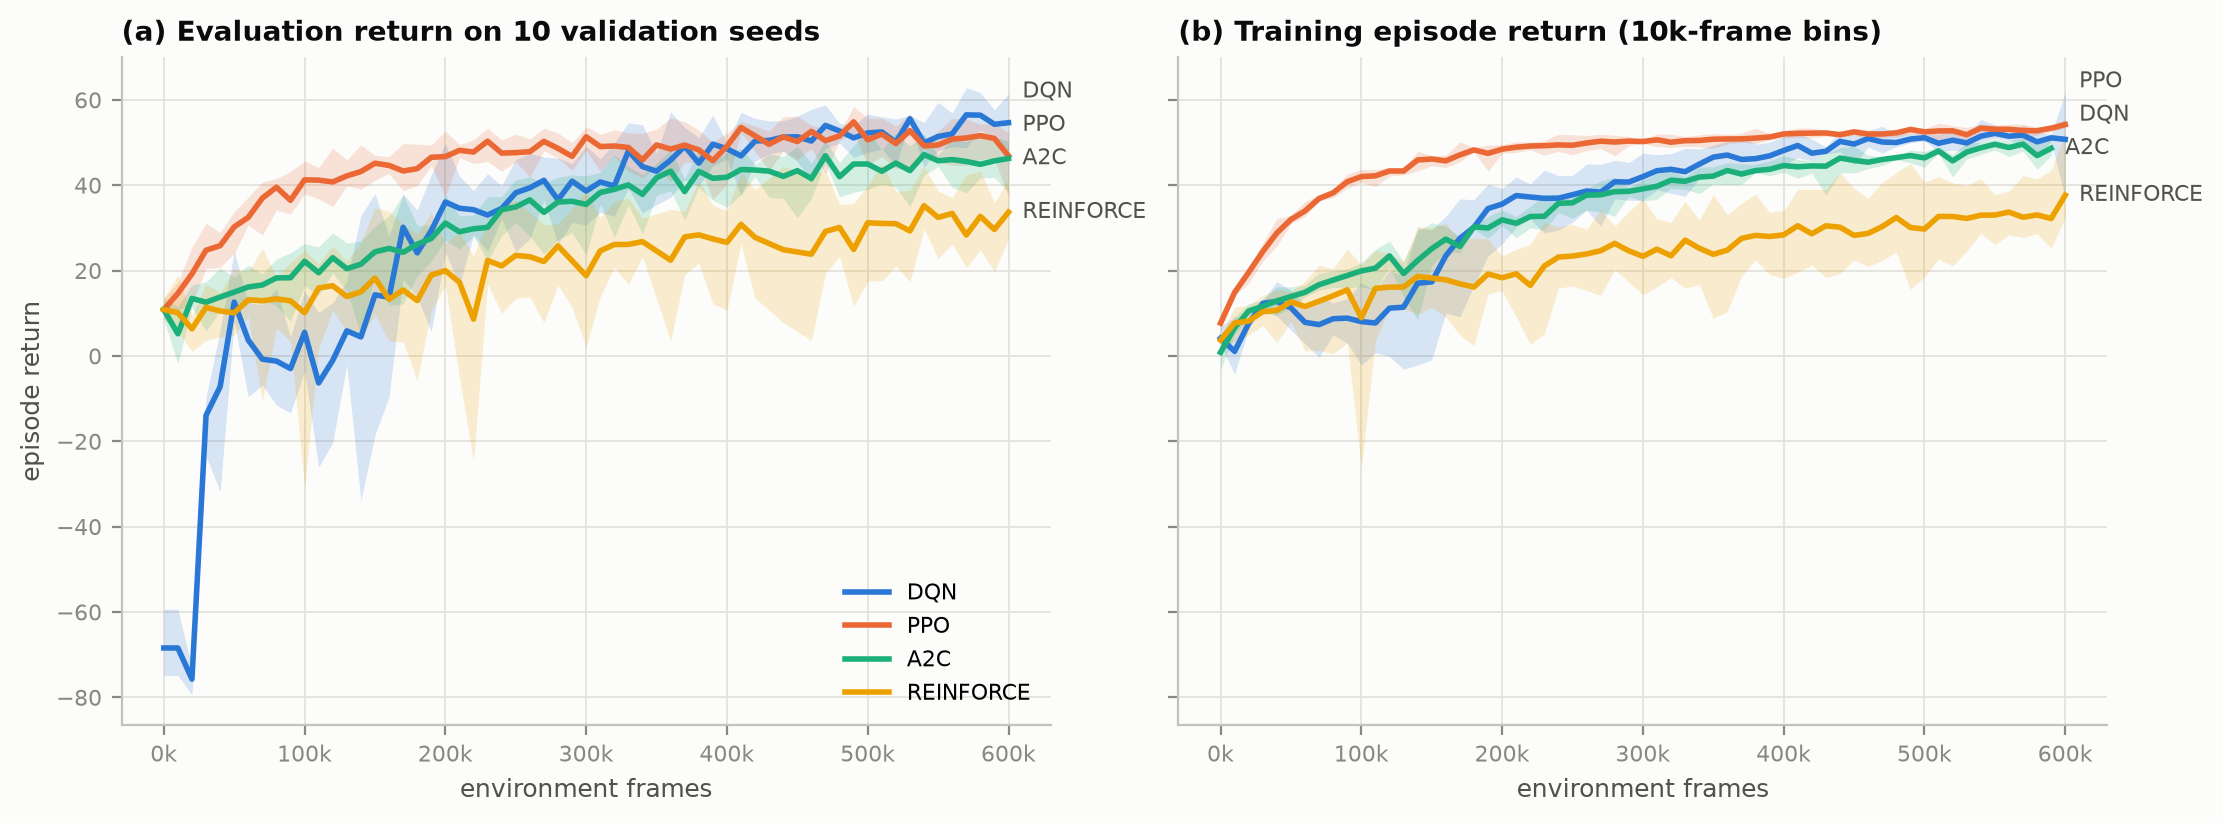
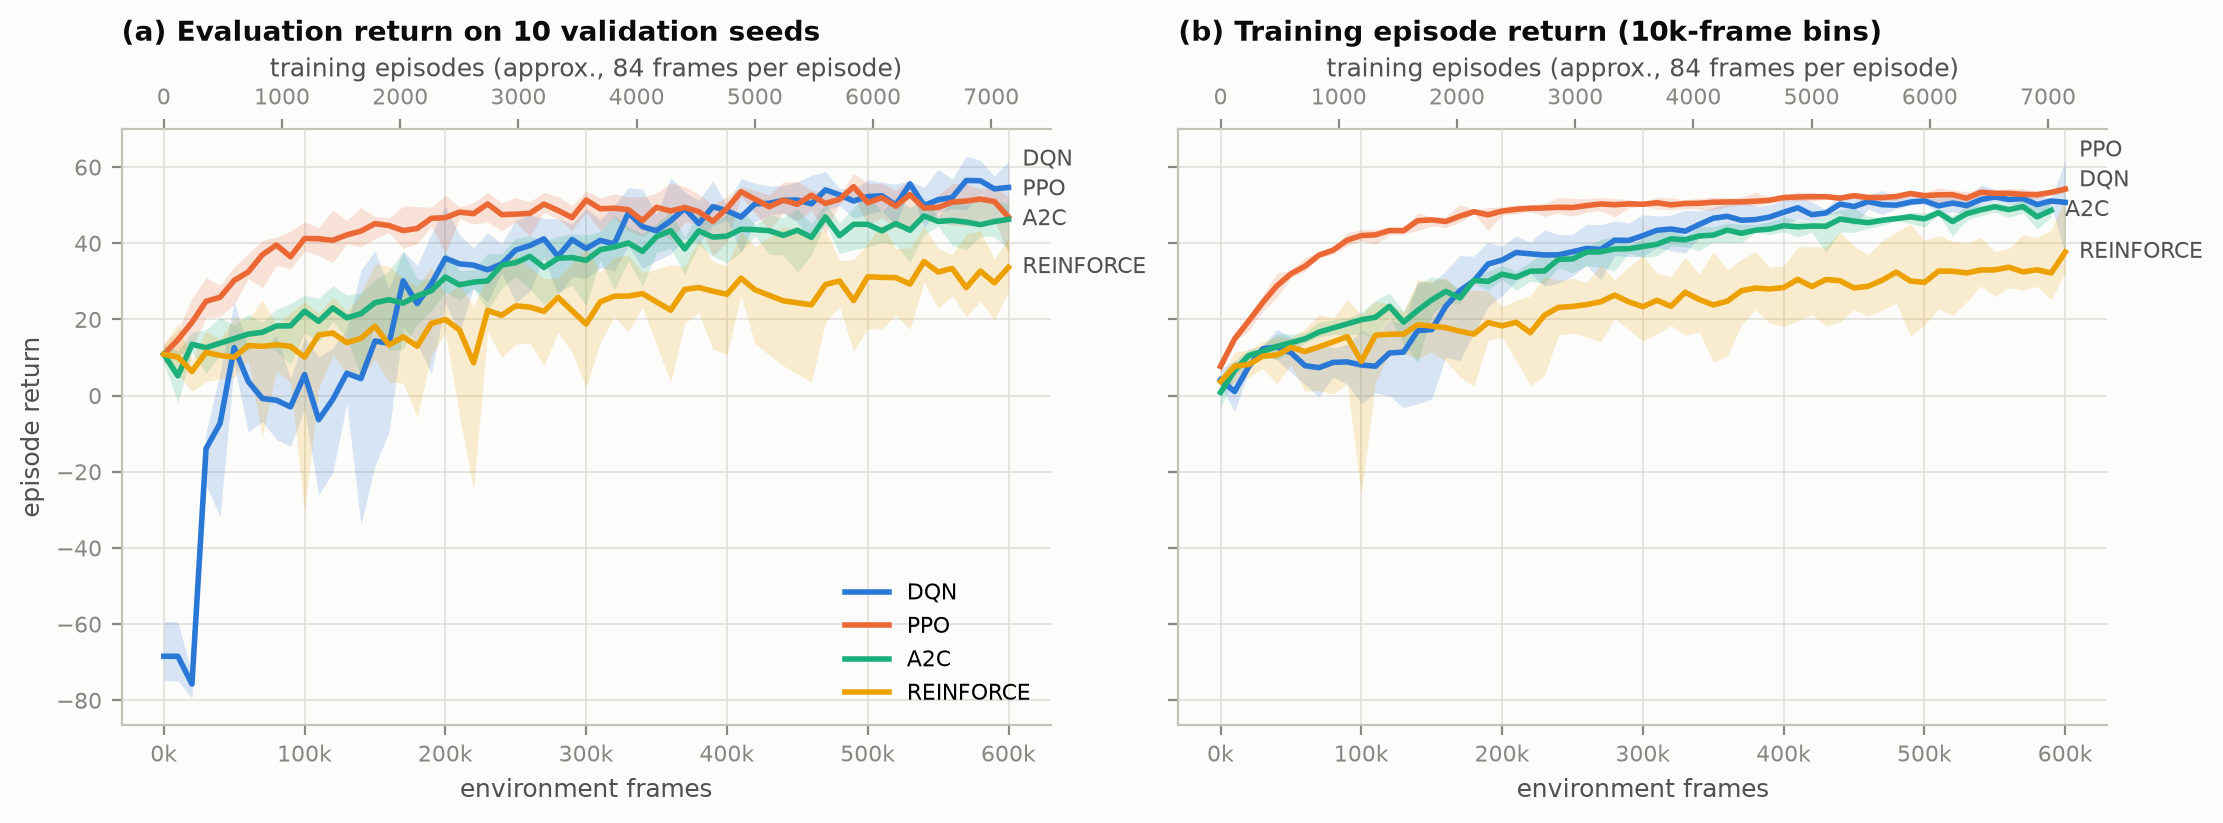
Add report-template hyperparameter tables and episode counts
template_<algo> tables list every hyperparameter per Phase 1 run in the official
report-template layout (DQN columns fixed by the template; A2C added since the
template omits it), with the changed value starred and mean reward on the 50
selection seeds. Convergence table gains episodes-to-threshold columns, and
fig1 shows an approximate training-episode axis.

diff --git a/main.py b/main.py
@@ -31,7 +31,7 @@ import os
 import subprocess
 import sys
 import time
-from collections.abc import Iterable, Sequence
+from collections.abc import Callable, Iterable, Sequence
 from concurrent.futures import as_completed, ThreadPoolExecutor
 from dataclasses import dataclass, field
 from pathlib import Path
@@ -1125,6 +1125,51 @@ def hyperparameter_table(data: dict[str, Any], algo: str) -> pd.DataFrame:
     return pd.DataFrame(rows)
 
 
+def _eps_strategy(c: dict[str, Any]) -> str:
+    return f"eps-greedy {c['eps_start']:g}->{c['eps_end']:g} over {c['eps_decay_frames'] / 1000:g}k frames"
+
+
+# Report-template columns per algorithm: (column label, value from the run's full config). The DQN columns are fixed
+# by the official template; the policy-gradient ones are the controls each sweep varied (the template leaves them open).
+TEMPLATE_COLUMNS: dict[str, list[tuple[str, Callable[[dict[str, Any]], Any]]]] = {
+    "dqn": [("Learning Rate", lambda c: c["lr"]), ("Gamma", lambda c: c["gamma"]),
+            ("Replay Buffer Size", lambda c: c["buffer_size"]), ("Batch Size", lambda c: c["batch_size"]),
+            ("Exploration Strategy", _eps_strategy), ("Learning Starts", lambda c: c["learning_starts"]),
+            ("Target Update", lambda c: "hard / 1k steps" if c["target_update"] == "hard" else f"soft, tau={c['tau']:g}")],
+    "reinforce": [("Learning Rate", lambda c: c["lr"]), ("Gamma", lambda c: c["gamma"]),
+                  ("Baseline", lambda c: c["baseline"]), ("Normalize Advantages", lambda c: c["normalize_advantages"]),
+                  ("Entropy Coef", lambda c: c["entropy_coef"]),
+                  ("Episodes per Update", lambda c: c["episodes_per_update"])],
+    "a2c": [("Learning Rate", lambda c: c["lr"]), ("Rollout Length (frames)", lambda c: c["frames_per_batch"]),
+            ("Entropy Coef", lambda c: c["entropy_coef"]), ("Value Coef", lambda c: c["value_coef"]),
+            ("GAE Lambda", lambda c: c["gae_lambda"])],
+    "ppo": [("Learning Rate", lambda c: c["lr"]), ("Clip Epsilon", lambda c: c["clip_epsilon"]),
+            ("Epochs", lambda c: c["num_epochs"]), ("Minibatch Size", lambda c: c["minibatch_size"]),
+            ("Rollout Length (frames)", lambda c: c["frames_per_batch"]), ("Entropy Coef", lambda c: c["entropy_coef"]),
+            ("Value Coef", lambda c: c["value_coef"]), ("GAE Lambda", lambda c: c["gae_lambda"])],
+}
+
+
+def template_table(data: dict[str, Any], algo: str) -> pd.DataFrame:
+    """The 10 Phase 1 configs in the report template's layout: every listed hyperparameter spelled out per row, then
+    the mean reward (mean return on the 50 selection seeds, 200k frames). The varied value is marked with *."""
+    sel = data["sel"]
+    picked = data["phase2_names"][algo].removesuffix("_p2")
+    base = data["base_cfg"][algo]
+    rows = []
+    for e in SWEEP[algo]:
+        cfg = {**base, **e.overrides}
+        changed = {label for label, fn in TEMPLATE_COLUMNS[algo] if fn(cfg) != fn(base)}
+        row = {"Run": e.name.removeprefix(f"{algo}_") + (" (picked)" if e.name == picked else "")}
+        for label, fn in TEMPLATE_COLUMNS[algo]:
+            v = fn(cfg)
+            text = ("yes" if v else "no") if isinstance(v, bool) else f"{v:g}" if isinstance(v, float) else str(v)
+            row[label] = f"{text}*" if label in changed else text
+        row["Mean Reward"] = f"{sel.loc[sel.policy == e.name, 'return'].mean():.1f}"
+        rows.append(row)
+    return pd.DataFrame(rows)
+
+
 def generalization_table(data: dict[str, Any]) -> pd.DataFrame:
     """Per algorithm: best validation return (model selection) vs held-out test return, and return per scenario."""
     p2, ep = data["p2"], data["episodes"]
@@ -1169,8 +1214,13 @@ def fig_learning_curves(data, out, captions) -> None:
     axes[0].set_title("(a) Evaluation return on 10 validation seeds")
     axes[1].set_title("(b) Training episode return (10k-frame bins)")
     axes[0].set_ylabel("episode return")
+    # Frames are decisions; a shift has ~75-90 of them, so also show the (pooled, approximate) episode count on top.
+    logs = [log for runs in data["p2_logs"].values() for log in runs]
+    per_ep = sum(int(log["frames"].max()) for log in logs) / sum(int(log["episodes"].max()) for log in logs)
     for ax in axes:
         _kframes(ax)
+        top = ax.secondary_xaxis("top", functions=(lambda f: f / per_ep, lambda e: e * per_ep))
+        top.set_xlabel(f"training episodes (approx., {per_ep:.0f} frames per episode)")
     axes[0].legend(loc="lower right")
     _save(fig, out, "fig1_learning_curves", captions,
           "Learning curves of the four algorithms (Phase 2: picked config, 5 seeds, 600k frames). Line: mean across "
@@ -1234,6 +1284,9 @@ def convergence_table(data) -> pd.DataFrame:
             for t in CONVERGENCE_THRESHOLDS:
                 hit = e.loc[e["eval_return_mean"] >= t, "frames"]
                 row[f"frames_to_{t:g}"] = float(hit.iloc[0]) if len(hit) else float("nan")
+            for t in CONVERGENCE_THRESHOLDS:  # training episodes completed by then (same log row)
+                hit = e.loc[e["eval_return_mean"] >= t, "episodes"]
+                row[f"episodes_to_{t:g}"] = float(hit.iloc[0]) if len(hit) else float("nan")
             last = e[e["frames"] >= e["frames"].max() - 100_000]["eval_return_mean"]
             row["last100k_mean"], row["last100k_std"] = last.mean(), last.std(ddof=1)
             rows.append(row)
@@ -1428,12 +1481,16 @@ def make_plots(root: Path = Path("."), out: Path | None = None) -> list[Path]:
         _write_table(pd.DataFrame({"parameter": list(cfg), "value": [json.dumps(v) if isinstance(v, (list, dict))
                                                                       else str(v) for v in cfg.values()]}),
                      tables, f"base_config_{a}", f"{ALGO_LABEL[a]}: base config c00")
+    for a in PLOT_ALGOS:
+        _write_table(template_table(data, a), tables, f"template_{a}",
+                     f"{ALGO_LABEL[a]}: Phase 1 runs in the report-template layout (200k frames, seed 0; * = the value "
+                     f"changed from c00; Mean Reward = mean return on 50 selection seeds)")
     for s in data["scenarios"]:
         _write_table(eval_table(data["episodes"], s), tables, f"final_eval_{s}",
                      f"Held-out evaluation, {s} (50 test seeds; RL pooled over 5 seeds)")
     _write_table(generalization_table(data), tables, "generalization",
                  "Validation (model selection) vs held-out test return, and return per scenario")
-    _write_table(conv, tables, "convergence", "Frames to reach validation-return thresholds (Phase 2 runs)",
+    _write_table(conv, tables, "convergence", "Frames and training episodes to reach validation-return thresholds (Phase 2 runs)",
                  floatfmt=".1f")
 
     lines = ["# Figure captions", "", "Generated by `uv run main.py plots` from the files in `logs/`.", ""]

diff --git a/assets/figures/tables/convergence.md b/assets/figures/tables/convergence.md
@@ -1,24 +1,24 @@
-### Frames to reach validation-return thresholds (Phase 2 runs)
+### Frames and training episodes to reach validation-return thresholds (Phase 2 runs)
 
-| algorithm | seed | frames_to_40 | frames_to_50 | last100k_mean | last100k_std |
-|---|---|---|---|---|---|
-| DQN | 0 | 190000.0 | 340000.0 | 51.1 | 5.3 |
-| DQN | 1 | 270000.0 | 420000.0 | 53.8 | 4.2 |
-| DQN | 2 | 210000.0 | 330000.0 | 55.0 | 4.9 |
-| DQN | 3 | 250000.0 | 340000.0 | 52.8 | 4.1 |
-| DQN | 4 | 290000.0 | 370000.0 | 54.0 | 3.2 |
-| PPO | 0 | 71680.0 | 204800.0 | 51.2 | 3.9 |
-| PPO | 1 | 112640.0 | 235520.0 | 52.1 | 2.8 |
-| PPO | 2 | 81920.0 | 225280.0 | 50.4 | 4.3 |
-| PPO | 3 | 81920.0 | 235520.0 | 48.6 | 3.6 |
-| PPO | 4 | 71680.0 | 286720.0 | 50.0 | 5.2 |
-| A2C | 0 | 251200.0 | 472256.0 | 45.6 | 4.1 |
-| A2C | 1 | 301440.0 | 562688.0 | 45.0 | 3.6 |
-| A2C | 2 | 291392.0 | 522496.0 | 45.8 | 4.4 |
-| A2C | 3 | 261248.0 | 502400.0 | 45.6 | 5.1 |
-| A2C | 4 | 291392.0 | 582784.0 | 44.5 | 3.7 |
-| REINFORCE | 0 | 388933.0 |  | 39.1 | 4.5 |
-| REINFORCE | 1 |  |  | 24.5 | 5.4 |
-| REINFORCE | 2 |  |  | 31.4 | 5.0 |
-| REINFORCE | 3 |  |  | 31.3 | 8.0 |
-| REINFORCE | 4 |  |  | 31.9 | 5.2 |
+| algorithm | seed | frames_to_40 | frames_to_50 | episodes_to_40 | episodes_to_50 | last100k_mean | last100k_std |
+|---|---|---|---|---|---|---|---|
+| DQN | 0 | 190000.0 | 340000.0 | 2013.0 | 3680.0 | 51.1 | 5.3 |
+| DQN | 1 | 270000.0 | 420000.0 | 2786.0 | 4331.0 | 53.8 | 4.2 |
+| DQN | 2 | 210000.0 | 330000.0 | 2196.0 | 3502.0 | 55.0 | 4.9 |
+| DQN | 3 | 250000.0 | 340000.0 | 2559.0 | 3543.0 | 52.8 | 4.1 |
+| DQN | 4 | 290000.0 | 370000.0 | 2882.0 | 3742.0 | 54.0 | 3.2 |
+| PPO | 0 | 71680.0 | 204800.0 | 971.0 | 2734.0 | 51.2 | 3.9 |
+| PPO | 1 | 112640.0 | 235520.0 | 1474.0 | 3092.0 | 52.1 | 2.8 |
+| PPO | 2 | 81920.0 | 225280.0 | 1091.0 | 2963.0 | 50.4 | 4.3 |
+| PPO | 3 | 81920.0 | 235520.0 | 1121.0 | 3143.0 | 48.6 | 3.6 |
+| PPO | 4 | 71680.0 | 286720.0 | 959.0 | 3824.0 | 50.0 | 5.2 |
+| A2C | 0 | 251200.0 | 472256.0 | 3161.0 | 5707.0 | 45.6 | 4.1 |
+| A2C | 1 | 301440.0 | 562688.0 | 3765.0 | 6891.0 | 45.0 | 3.6 |
+| A2C | 2 | 291392.0 | 522496.0 | 3604.0 | 6345.0 | 45.8 | 4.4 |
+| A2C | 3 | 261248.0 | 502400.0 | 3304.0 | 6195.0 | 45.6 | 5.1 |
+| A2C | 4 | 291392.0 | 582784.0 | 3546.0 | 7120.0 | 44.5 | 3.7 |
+| REINFORCE | 0 | 388933.0 |  | 4350.0 |  | 39.1 | 4.5 |
+| REINFORCE | 1 |  |  |  |  | 24.5 | 5.4 |
+| REINFORCE | 2 |  |  |  |  | 31.4 | 5.0 |
+| REINFORCE | 3 |  |  |  |  | 31.3 | 8.0 |
+| REINFORCE | 4 |  |  |  |  | 31.9 | 5.2 |

diff --git a/assets/figures/tables/template_dqn.md b/assets/figures/tables/template_dqn.md
@@ -1,0 +1,14 @@
+### DQN: Phase 1 runs in the report-template layout (200k frames, seed 0; * = the value changed from c00; Mean Reward = mean return on 50 selection seeds)
+
+| Run | Learning Rate | Gamma | Replay Buffer Size | Batch Size | Exploration Strategy | Learning Starts | Target Update | Mean Reward |
+|---|---|---|---|---|---|---|---|---|
+| c00 | 0.0005 | 0.99 | 50000 | 128 | eps-greedy 1->0.05 over 60k frames | 5000 | soft, tau=0.005 | 29.3 |
+| c01 | 0.0001* | 0.99 | 50000 | 128 | eps-greedy 1->0.05 over 60k frames | 5000 | soft, tau=0.005 | -10.5 |
+| c02 | 0.001* | 0.99 | 50000 | 128 | eps-greedy 1->0.05 over 60k frames | 5000 | soft, tau=0.005 | 30.0 |
+| c03 | 0.0005 | 0.95* | 50000 | 128 | eps-greedy 1->0.05 over 60k frames | 5000 | soft, tau=0.005 | 35.1 |
+| c04 | 0.0005 | 0.99 | 50000 | 128 | eps-greedy 1->0.05 over 20k frames* | 5000 | soft, tau=0.005 | 37.6 |
+| c05 | 0.0005 | 0.99 | 50000 | 128 | eps-greedy 1->0.05 over 120k frames* | 5000 | soft, tau=0.005 | 44.3 |
+| c06 | 0.0005 | 0.99 | 10000* | 128 | eps-greedy 1->0.05 over 60k frames | 5000 | soft, tau=0.005 | 29.9 |
+| c07 | 0.0005 | 0.99 | 50000 | 32* | eps-greedy 1->0.05 over 60k frames | 5000 | soft, tau=0.005 | -13.2 |
+| c08 (picked) | 0.0005 | 0.99 | 50000 | 128 | eps-greedy 1->0.05 over 60k frames | 20000* | soft, tau=0.005 | 44.4 |
+| c09 | 0.0005 | 0.99 | 50000 | 128 | eps-greedy 1->0.05 over 60k frames | 5000 | hard / 1k steps* | 36.6 |

diff --git a/assets/figures/tables/template_ppo.md b/assets/figures/tables/template_ppo.md
@@ -1,0 +1,14 @@
+### PPO: Phase 1 runs in the report-template layout (200k frames, seed 0; * = the value changed from c00; Mean Reward = mean return on 50 selection seeds)
+
+| Run | Learning Rate | Clip Epsilon | Epochs | Minibatch Size | Rollout Length (frames) | Entropy Coef | Value Coef | GAE Lambda | Mean Reward |
+|---|---|---|---|---|---|---|---|---|---|
+| c00 | 0.0003 | 0.2 | 4 | 128 | 1024 | 0.01 | 0.5 | 0.95 | 43.1 |
+| c01 | 0.001* | 0.2 | 4 | 128 | 1024 | 0.01 | 0.5 | 0.95 | 46.8 |
+| c02 | 0.0003 | 0.1* | 4 | 128 | 1024 | 0.01 | 0.5 | 0.95 | 35.8 |
+| c03 | 0.0003 | 0.3* | 4 | 128 | 1024 | 0.01 | 0.5 | 0.95 | 36.9 |
+| c04 (picked) | 0.0003 | 0.2 | 10* | 128 | 1024 | 0.01 | 0.5 | 0.95 | 49.3 |
+| c05 | 0.0003 | 0.2 | 4 | 256* | 1024 | 0.01 | 0.5 | 0.95 | 35.2 |
+| c06 | 0.0003 | 0.2 | 4 | 128 | 2048* | 0.01 | 0.5 | 0.95 | 42.1 |
+| c07 | 0.0003 | 0.2 | 4 | 128 | 1024 | 0.05* | 0.5 | 0.95 | 31.7 |
+| c08 | 0.0003 | 0.2 | 4 | 128 | 1024 | 0.01 | 1* | 0.95 | 41.2 |
+| c09 | 0.0003 | 0.2 | 4 | 128 | 1024 | 0.01 | 0.5 | 0.9* | 43.4 |

diff --git a/assets/figures/tables/template_reinforce.md b/assets/figures/tables/template_reinforce.md
@@ -1,0 +1,14 @@
+### REINFORCE: Phase 1 runs in the report-template layout (200k frames, seed 0; * = the value changed from c00; Mean Reward = mean return on 50 selection seeds)
+
+| Run | Learning Rate | Gamma | Baseline | Normalize Advantages | Entropy Coef | Episodes per Update | Mean Reward |
+|---|---|---|---|---|---|---|---|
+| c00 | 0.003 | 0.99 | value | yes | 0.01 | 5 | 19.9 |
+| c01 | 0.001* | 0.99 | value | yes | 0.01 | 5 | 26.2 |
+| c02 | 0.01* | 0.99 | value | yes | 0.01 | 5 | 5.0 |
+| c03 (picked) | 0.003 | 0.95* | value | yes | 0.01 | 5 | 32.5 |
+| c04 | 0.003 | 0.99 | none* | yes | 0.01 | 5 | 10.0 |
+| c05 | 0.003 | 0.99 | moving_average* | yes | 0.01 | 5 | 12.6 |
+| c06 | 0.003 | 0.99 | value | no* | 0.01 | 5 | 23.8 |
+| c07 | 0.003 | 0.99 | value | yes | 0.05* | 5 | 24.9 |
+| c08 | 0.003 | 0.99 | value | yes | 0.01 | 2* | 14.1 |
+| c09 | 0.003 | 0.99 | value | yes | 0.01 | 10* | 27.7 |

diff --git a/assets/figures/tables/template_a2c.md b/assets/figures/tables/template_a2c.md
@@ -1,0 +1,14 @@
+### A2C: Phase 1 runs in the report-template layout (200k frames, seed 0; * = the value changed from c00; Mean Reward = mean return on 50 selection seeds)
+
+| Run | Learning Rate | Rollout Length (frames) | Entropy Coef | Value Coef | GAE Lambda | Mean Reward |
+|---|---|---|---|---|---|---|
+| c00 | 0.001 | 256 | 0.01 | 0.5 | 0.95 | 28.0 |
+| c01 | 0.0003* | 256 | 0.01 | 0.5 | 0.95 | 16.9 |
+| c02 | 0.003* | 256 | 0.01 | 0.5 | 0.95 | 18.8 |
+| c03 (picked) | 0.001 | 64* | 0.01 | 0.5 | 0.95 | 32.9 |
+| c04 | 0.001 | 1024* | 0.01 | 0.5 | 0.95 | 10.3 |
+| c05 | 0.001 | 256 | 0.05* | 0.5 | 0.95 | 23.4 |
+| c06 | 0.001 | 256 | 0.01 | 0.25* | 0.95 | 29.4 |
+| c07 | 0.001 | 256 | 0.01 | 1* | 0.95 | 23.7 |
+| c08 | 0.001 | 256 | 0.01 | 0.5 | 0.8* | 2.8 |
+| c09 | 0.001 | 256 | 0.01 | 0.5 | 1* | 20.7 |
